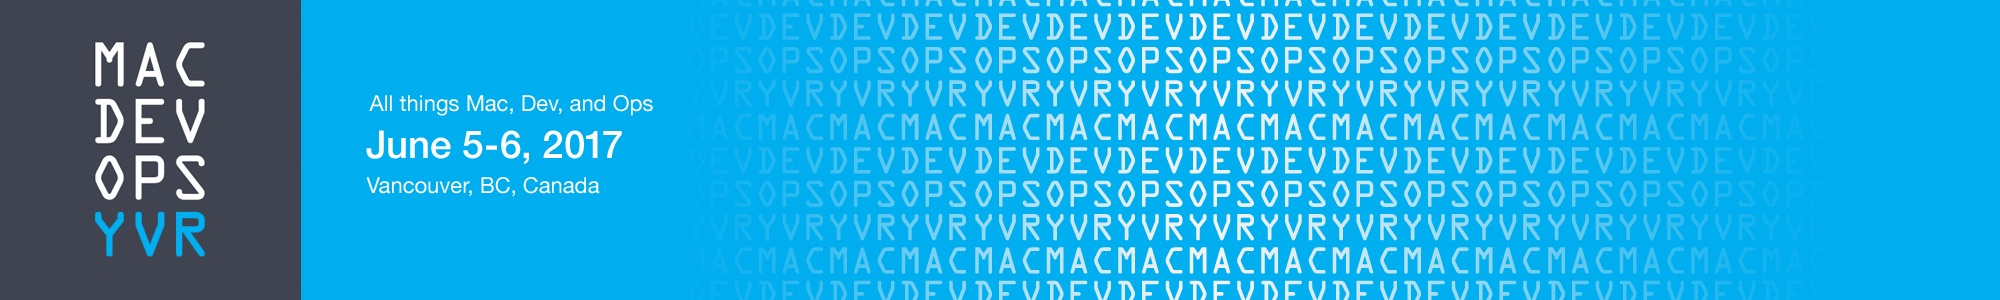
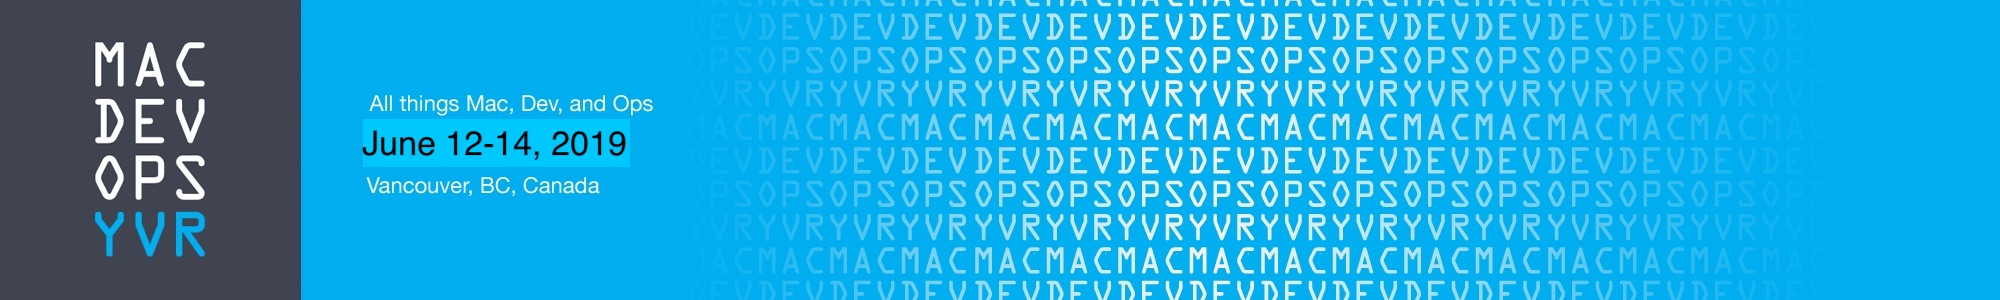
Updated 2019 dates

Changed region(s): [[0.155, 0.39, 0.341, 0.57]]

diff --git a/index.md b/index.md
@@ -8,9 +8,9 @@ body_id: home
 
 The new MacDevOps:YVR website is <a href="https://mdoyvr.com">mdoyvr.com</a>
 
-## 2018:
+## 2019:
 
-Dates for the 2018 conference are June 7-8. More info on the new <a href="https://mdoyvr.com">website.</a>.
+Dates for the next conference are June 12-14, 2019. More info on the new <a href="https://mdoyvr.com">website.</a>.
 
 
 
